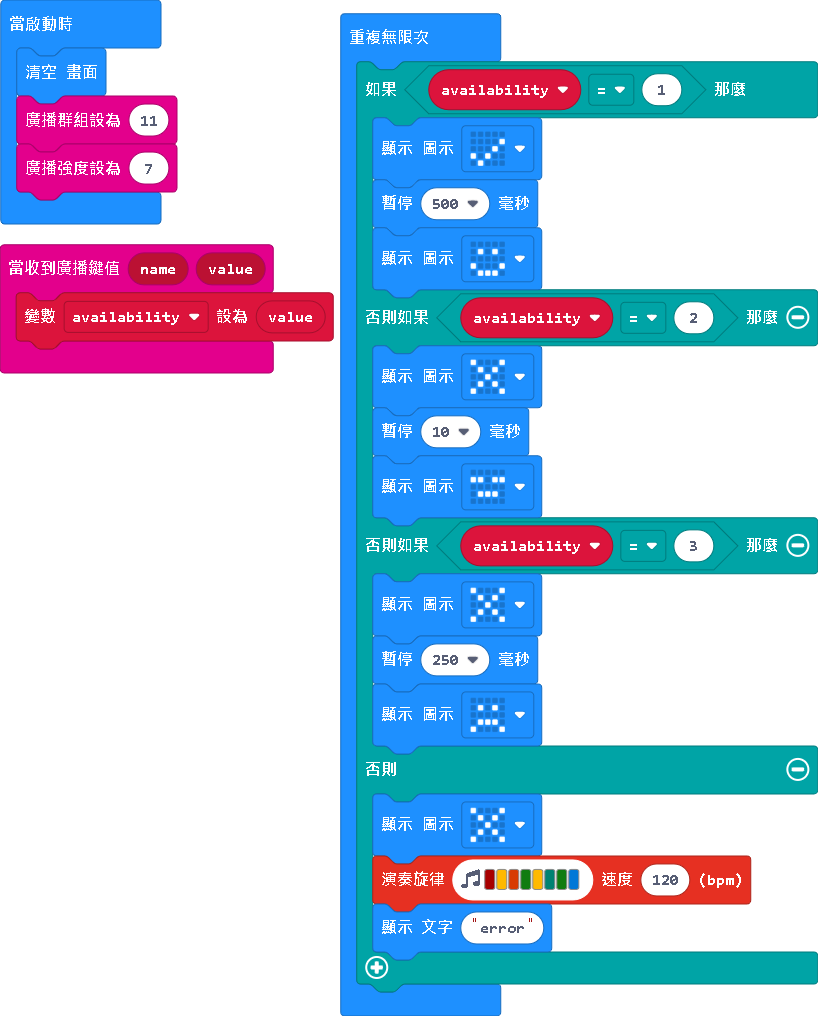
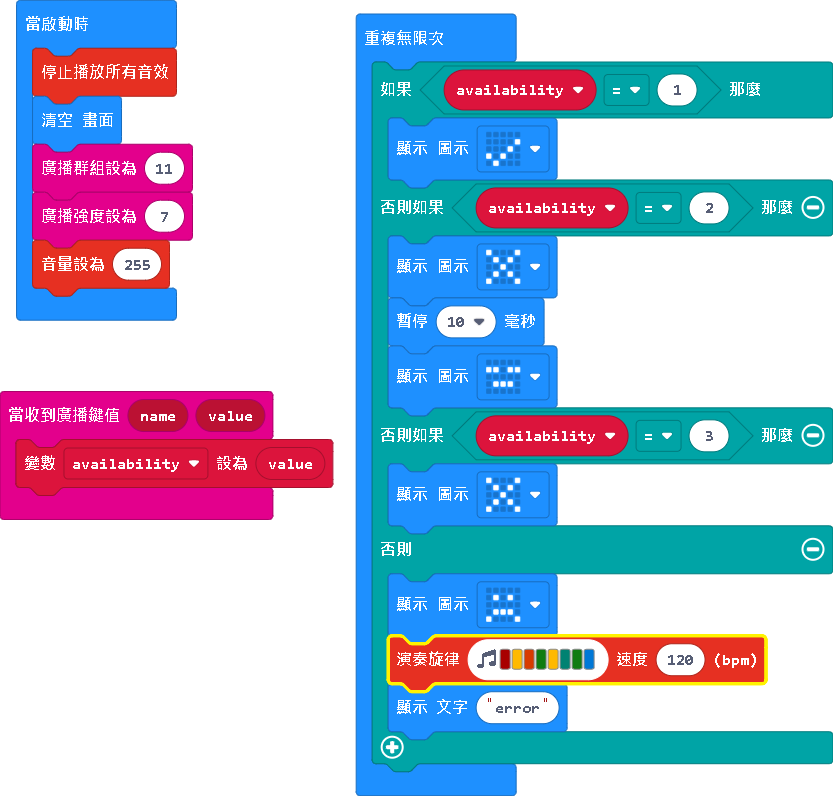
更新 main.blocks, main.ts

diff --git a/main.ts b/main.ts
@@ -2,24 +2,22 @@ radio.onReceivedValue(function (name, value) {
     availability = value
 })
 let availability = 0
+music.stopAllSounds()
 basic.clearScreen()
 radio.setGroup(11)
 radio.setTransmitPower(7)
+music.setVolume(255)
 basic.forever(function () {
     if (availability == 1) {
         basic.showIcon(IconNames.Yes)
-        basic.pause(500)
-        basic.showIcon(IconNames.Happy)
     } else if (availability == 2) {
         basic.showIcon(IconNames.No)
         basic.pause(10)
         basic.showIcon(IconNames.Asleep)
     } else if (availability == 3) {
         basic.showIcon(IconNames.No)
-        basic.pause(250)
-        basic.showIcon(IconNames.Sad)
     } else {
-        basic.showIcon(IconNames.No)
+        basic.showIcon(IconNames.Sad)
         music.playMelody("C5 A B G A F G E ", 120)
         basic.showString("error")
     }
